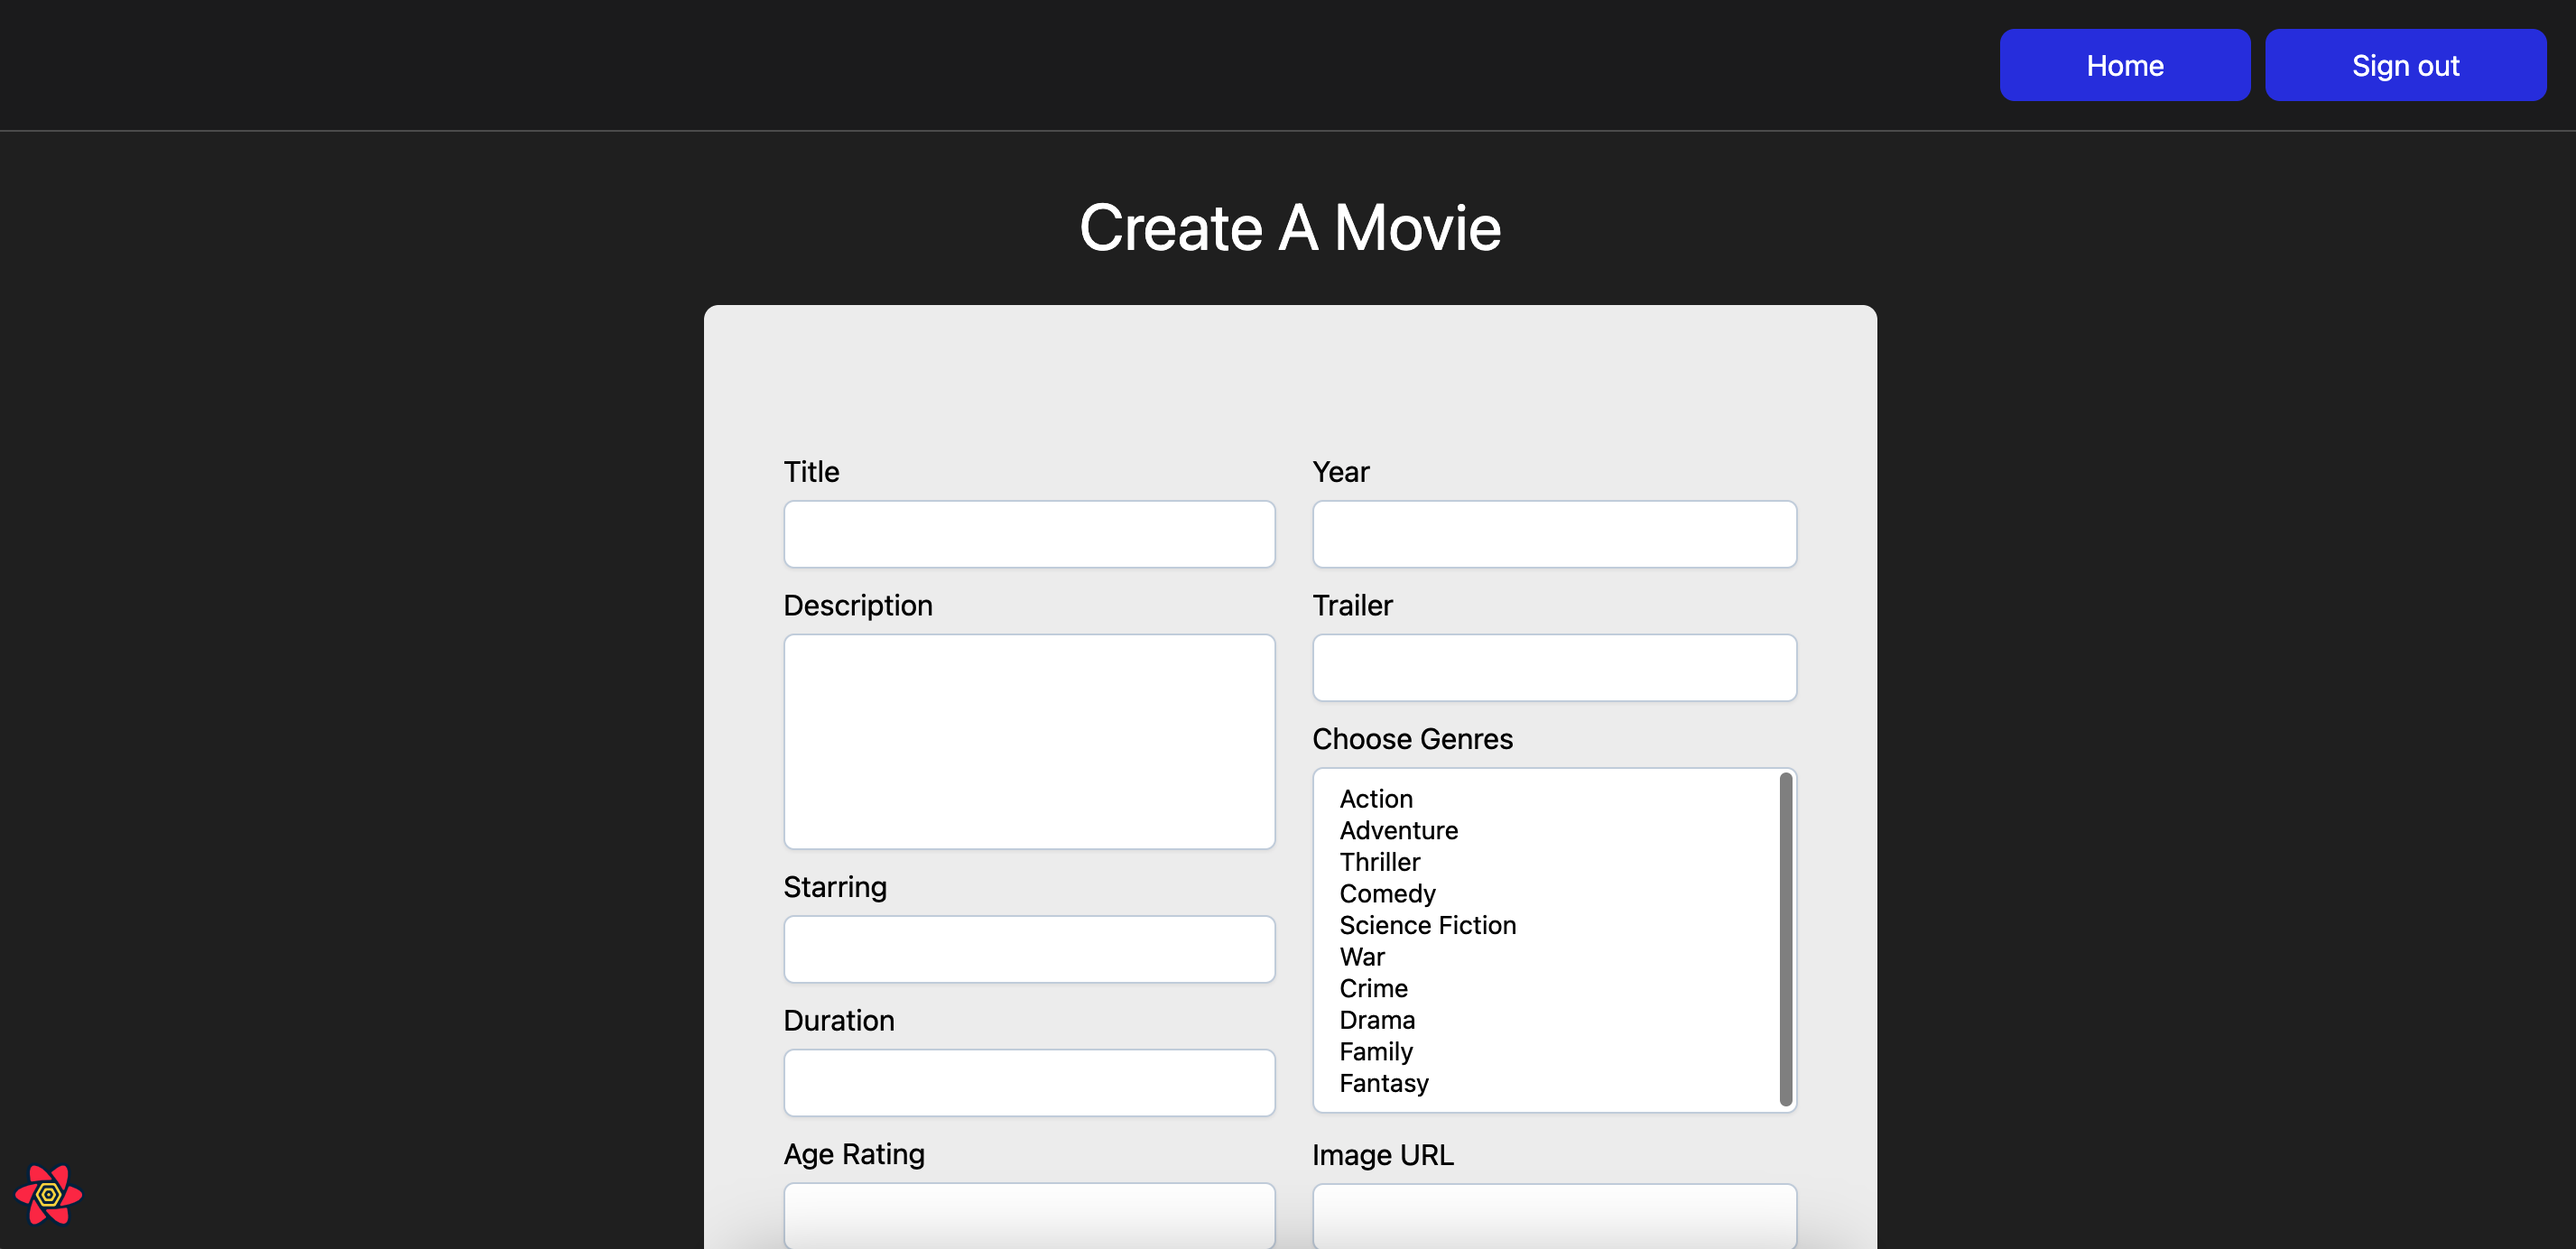
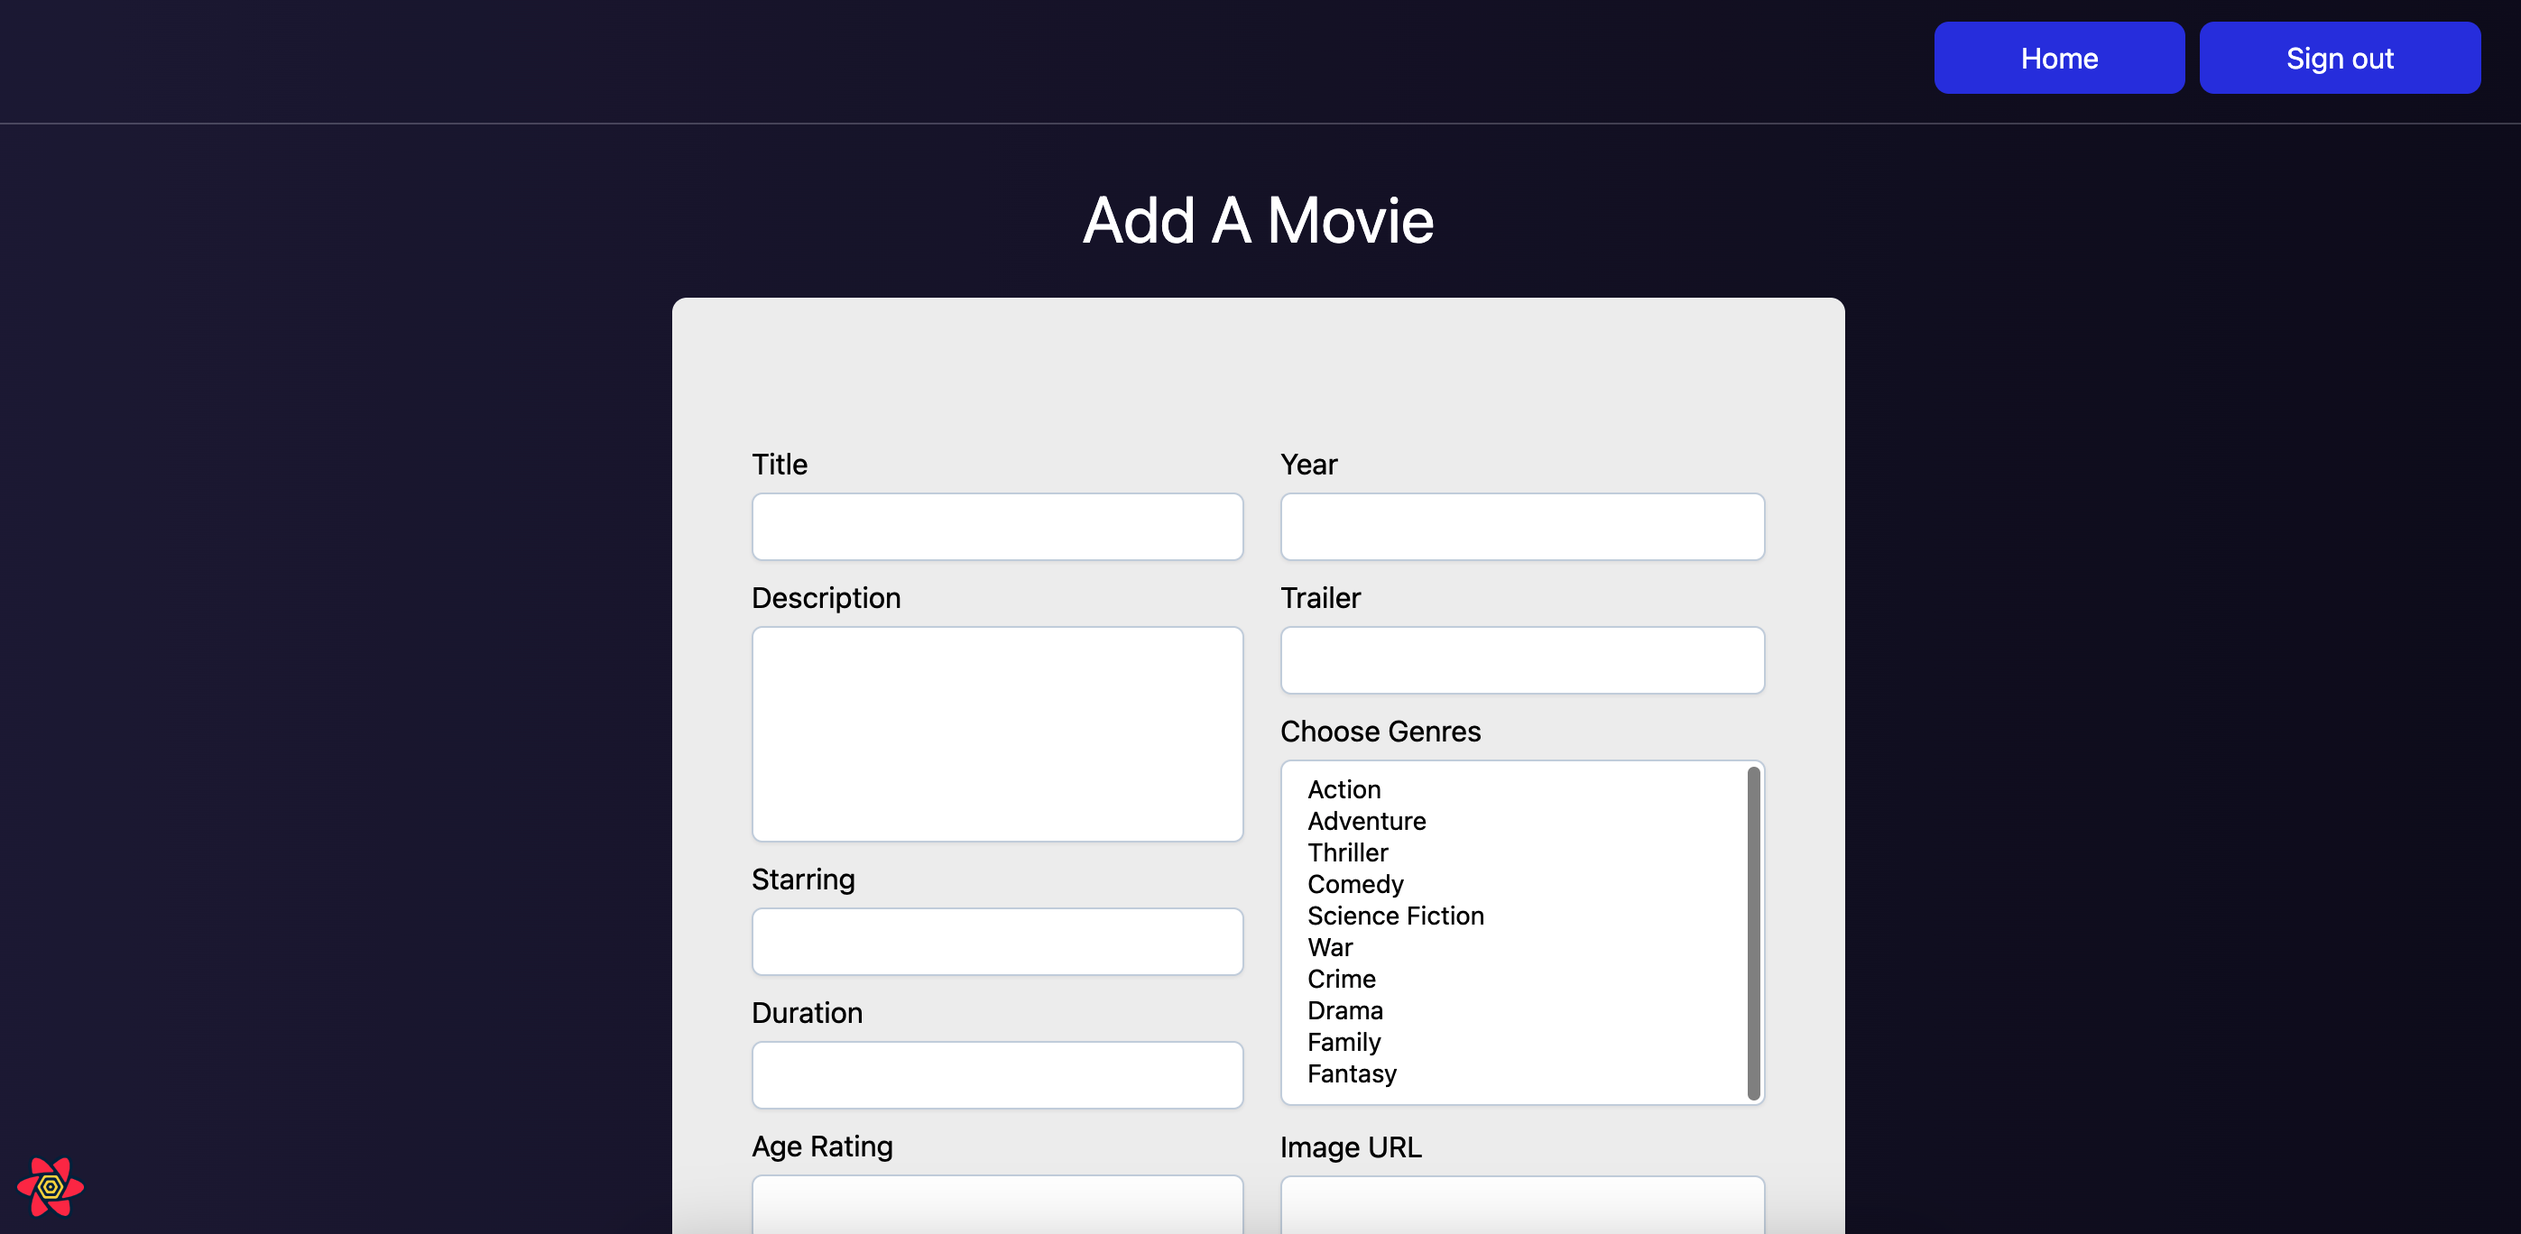
styling for add movie and edits to readme

diff --git a/src/pages/index.tsx b/src/pages/index.tsx
@@ -25,11 +25,8 @@ const HomePage = () => {
       <Head>
         <title>Next Movies</title>
       </Head>
-      <div className="bg-[#0a0915] border-b border-[#ffffff42]">
+      <div className="bg-gradient-to-r from-[#252242] to-[#0f0d23] border-b border-[#ffffff42]">
         <Header />
-      </div>
-      <div className="bg-[#0a0915] flex justify-center pt-8">
-        <h1 className="text-4xl text-bold text-white">Next Movies</h1>
       </div>
       {error && <div>There is an error, please try again</div>}
       {isLoading ? (
@@ -37,7 +34,10 @@ const HomePage = () => {
           <FadeLoader color="#36d7b7" />
         </div>
       ) : (
-        <div className="bg-[#0a0915] pb-20">
+        <div className="bg-gradient-to-r from-[#252242] to-[#0f0d23] pb-20">
+          <div className="flex justify-center pt-8">
+            <h1 className="text-4xl text-bold text-white">Next Movies</h1>
+          </div>
           <div className="flex flex-col py-5 overflow-x-scroll">
             <h2 className="text-white ml-5 mb-2">ALL MOVIES</h2>
             <div className="flex cursor-pointer overflow-x-scroll overflow-y-hidden px-3">

diff --git a/src/pages/create-movie.tsx b/src/pages/create-movie.tsx
@@ -53,10 +53,10 @@ const CreateMovie = () => {
   }
   return (
     <>
-      <div className="bg-[#242425] border-b border-[#ffffff42]">
+      <div className="bg-gradient-to-r from-[#252242] to-[#0f0d23] border-b border-[#ffffff42]">
         <Header />
       </div>
-      <div className="text-center pt-8 pb-20 h-full bg-[#2a2a2a]">
+      <div className="text-center pt-8 pb-20 h-full bg-gradient-to-r from-[#252242] to-[#0f0d23]">
         <h1 className="text-white text-4xl text-bold">Add A Movie</h1>
         <div>
           {!session && (

diff --git a/README.md b/README.md
@@ -46,6 +46,10 @@ Movie Details
 <img src="./src/styles/images/movie-details.png" width="1200">
 <pre>
 </pre>
+Create Movie Form
+<img src="./src/styles/images/create-movie.png" width="1200">
+<pre>
+</pre>
 Next Auth
 <img src="./src/styles/images/next-auth.png" width="1200">
 <pre>
@@ -58,7 +62,4 @@ Strapi API
 <img src="./src/styles/images/strapi-api.png" width="1200">
 <pre>
 </pre>
-Create Movie Form
-<img src="./src/styles/images/create-movie.png" width="1200">
-<pre>
-</pre>
+
